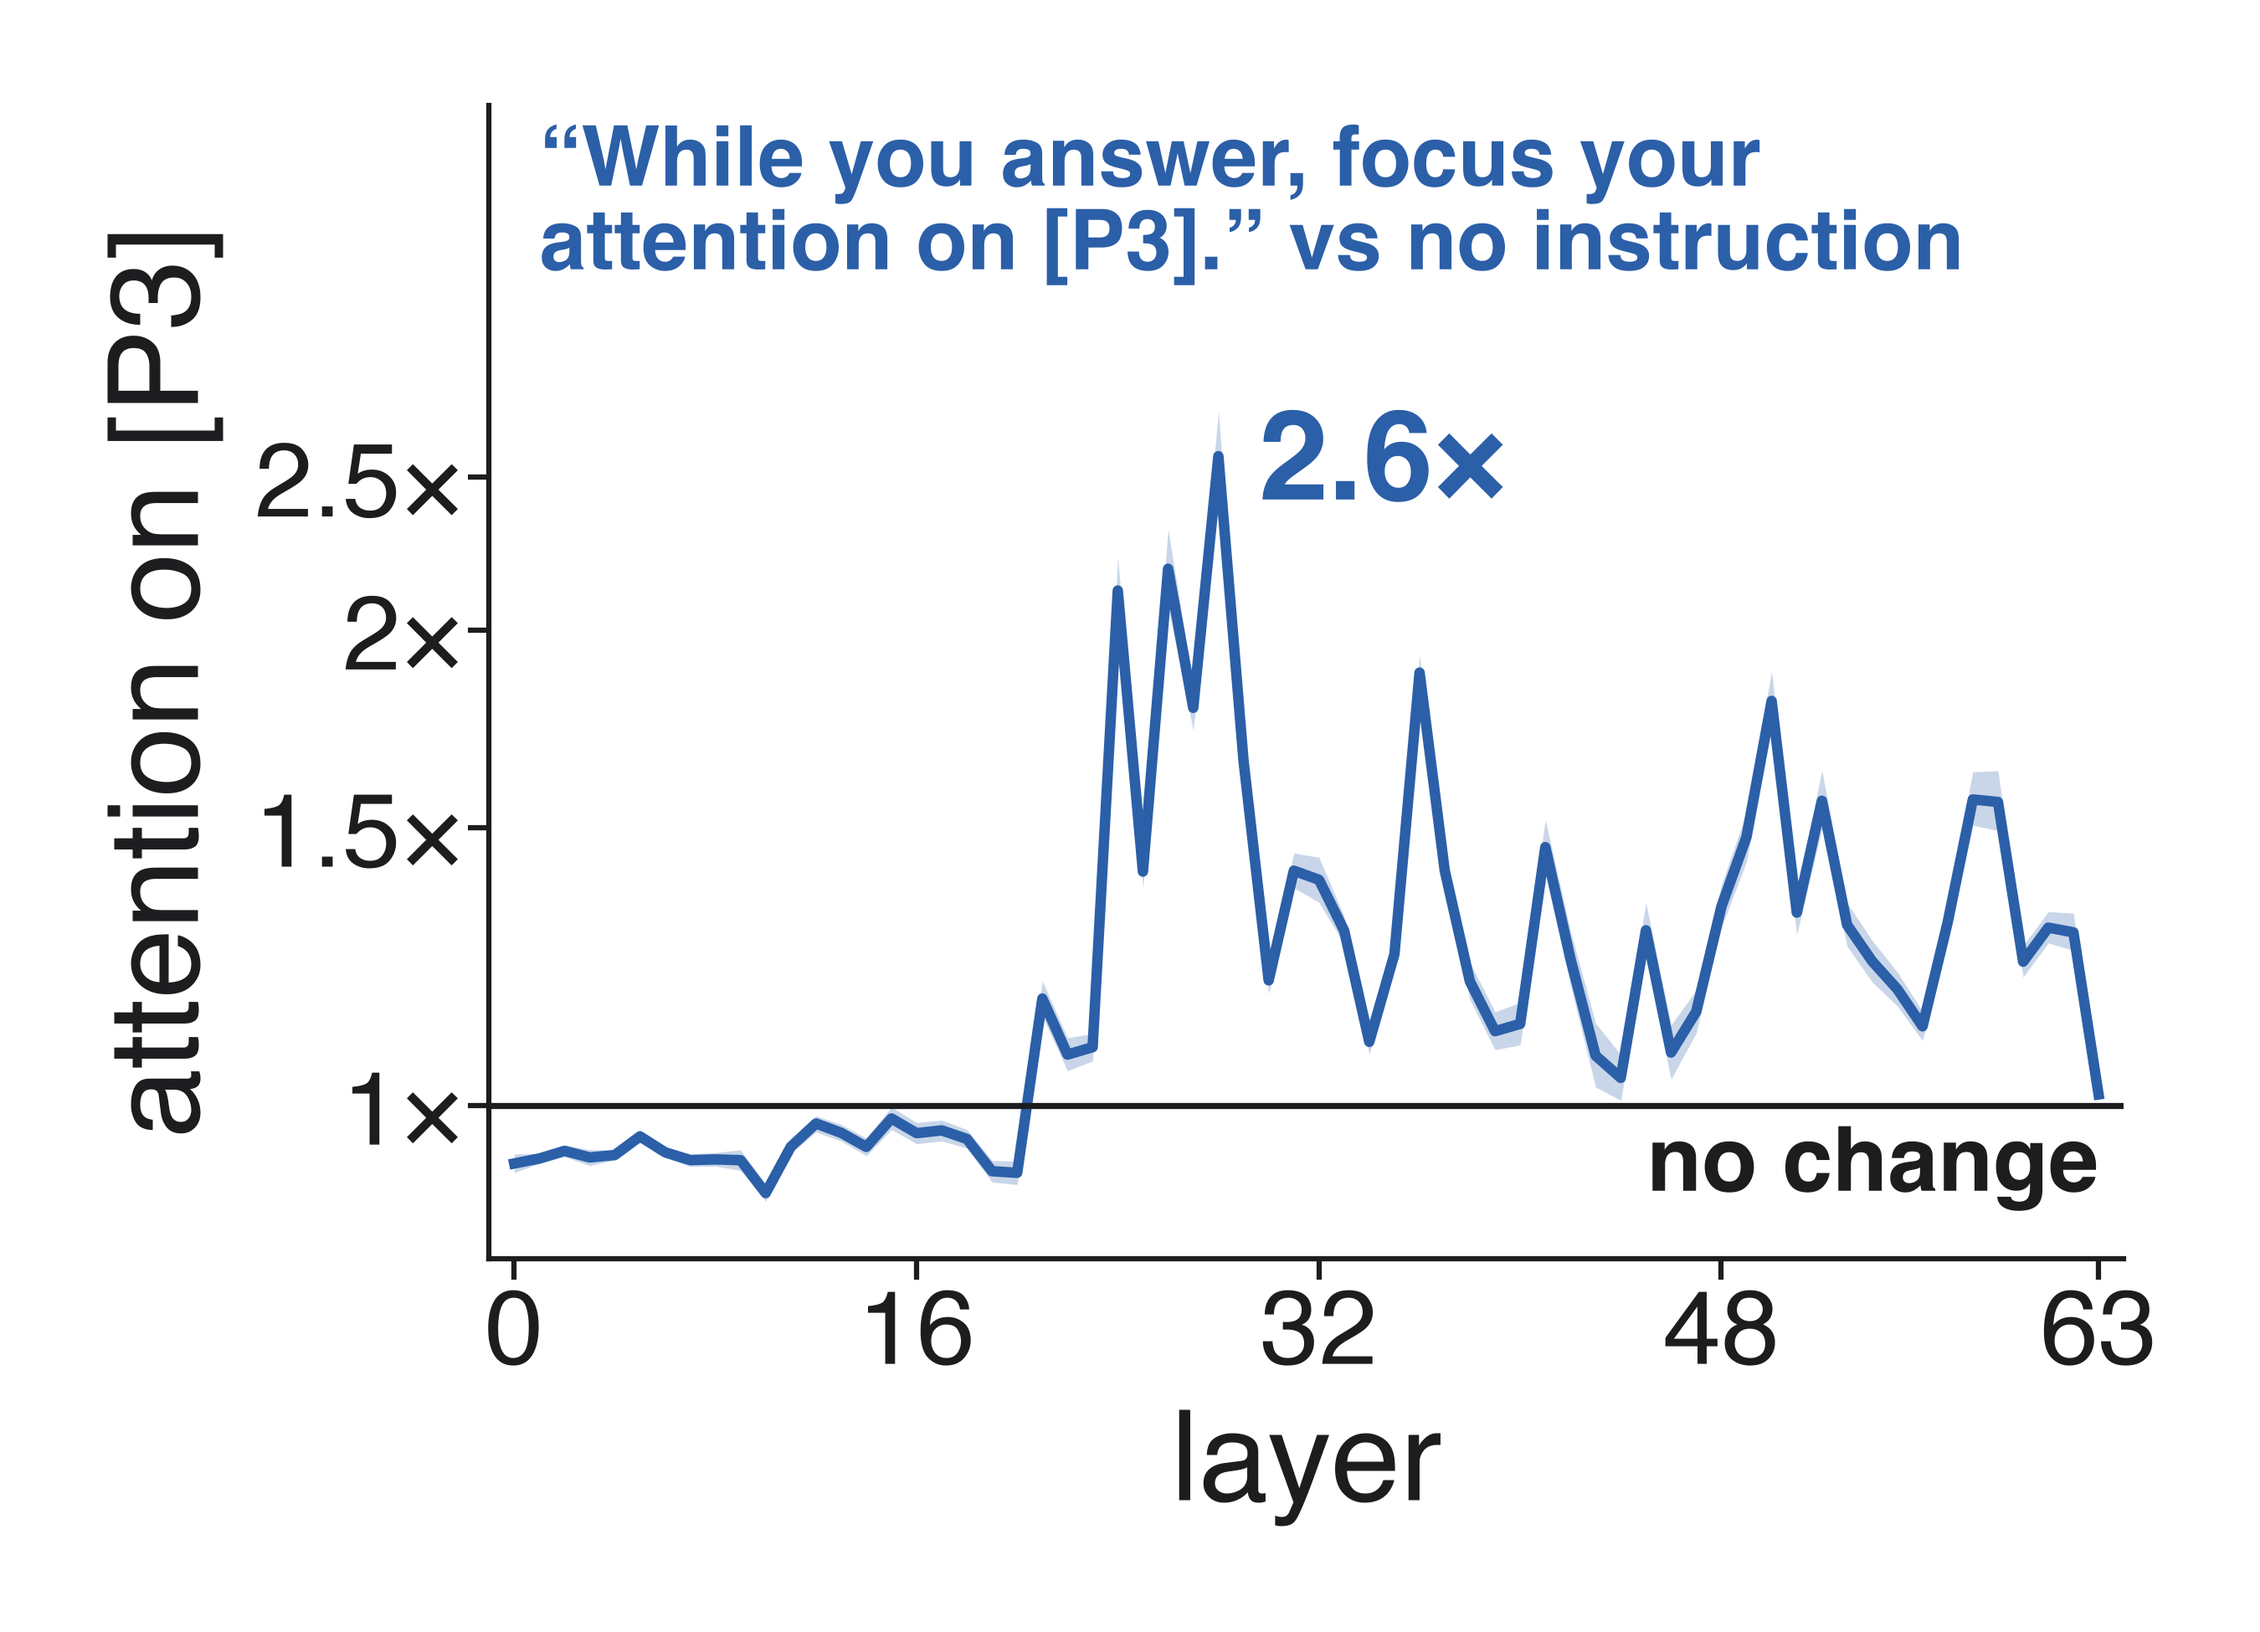
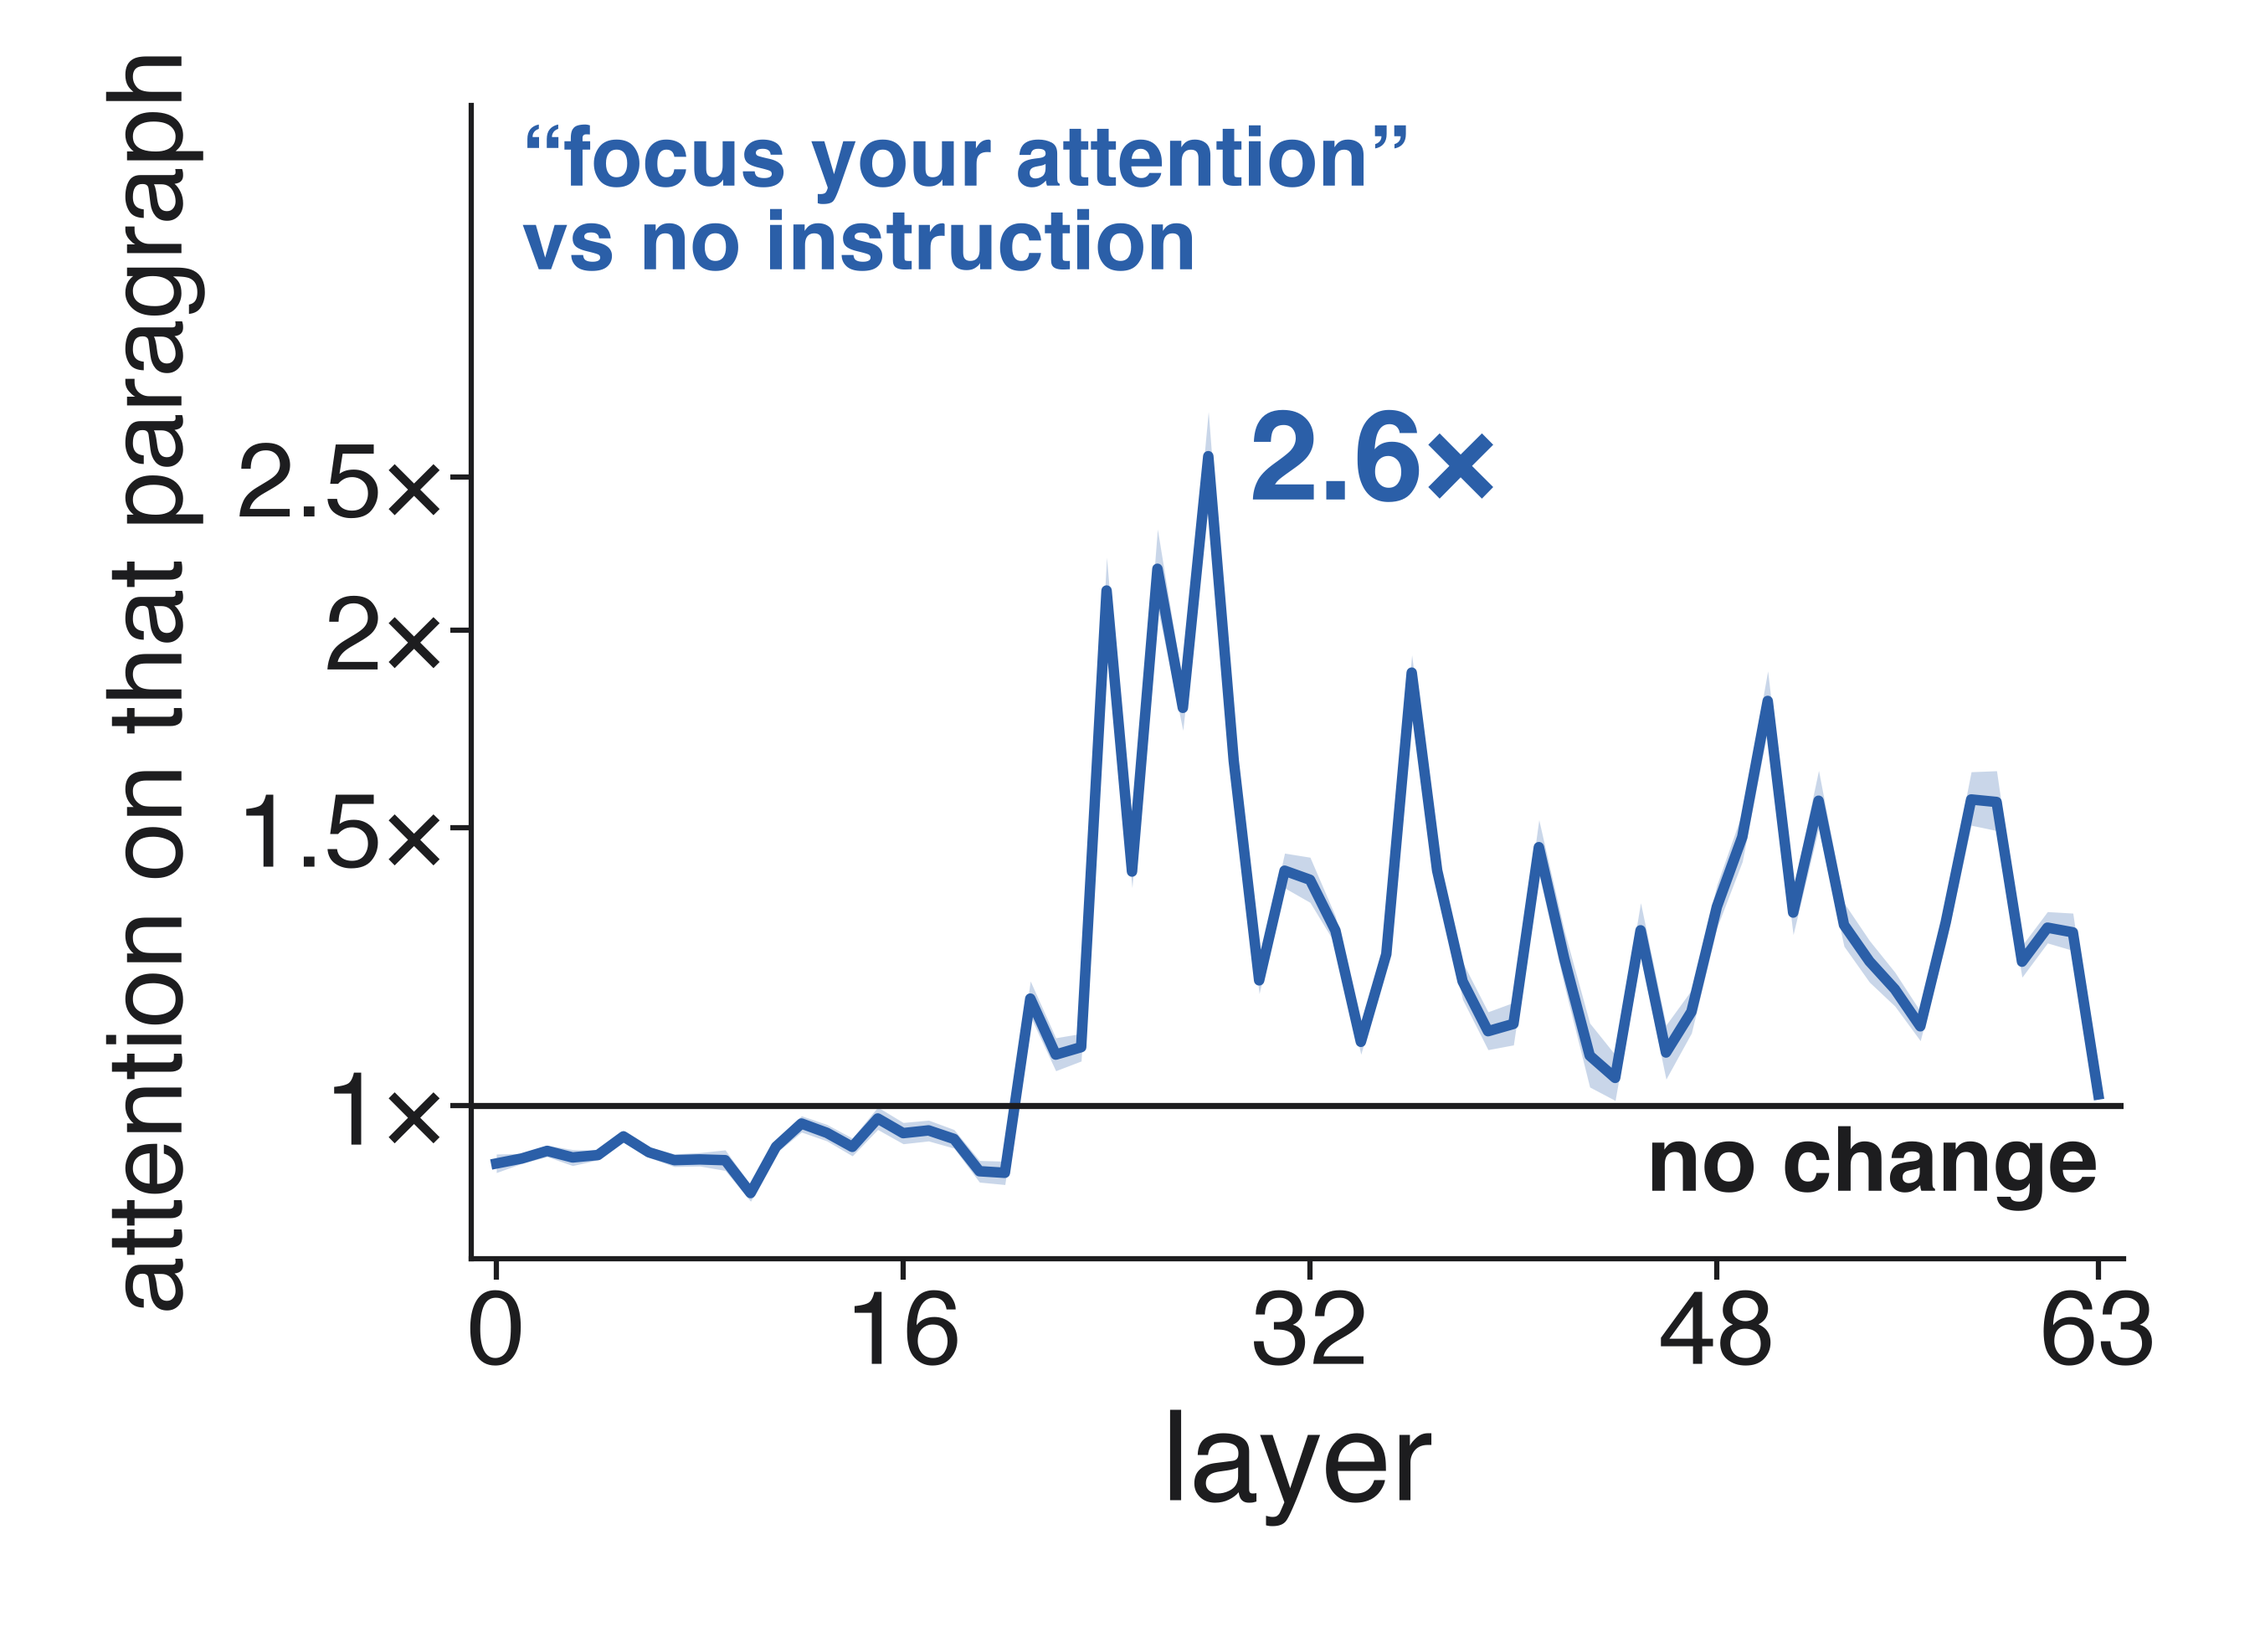
Layer figure: no paragraph label

diff --git a/figures/layers2.py b/figures/layers2.py
@@ -59,9 +59,9 @@ a.fill_between(l,lo,hi,color=BLUE,alpha=0.25,lw=0); a.plot(l,m,color=BLUE,lw=6)
 a.axhline(1,color=INK,lw=3.5); a.text(63,0.975,"no change",ha="right",va="top",fontsize=52,fontweight="bold")
 a.set_yscale("log"); a.set_yticks([1,1.5,2,2.5]); a.set_yticklabels(["1×","1.5×","2×","2.5×"]); a.set_ylim(0.8,4.3); a.minorticks_off()
 a.set_xlim(-1,64); a.set_xticks([0,16,32,48,63]); a.set_xlabel("layer",fontsize=72,labelpad=14)
-a.set_ylabel("attention on [P3]",fontsize=72,labelpad=18)
+a.set_ylabel("attention on that paragraph",fontsize=60,labelpad=18)
 i=int(np.argmax(m)); a.text(i+1.6,m[i]*0.99,f"{m[i]:.1f}×",fontsize=72,color=BLUE,fontweight="bold",va="center")
-a.text(1,4.2,"“While you answer, focus your\nattention on [P3].” vs no instruction",fontsize=48,color=BLUE,fontweight="bold",va="top")
+a.text(1,4.2,"“focus your attention”\nvs no instruction",fontsize=48,color=BLUE,fontweight="bold",va="top")
 for s_ in ["top","right"]: a.spines[s_].set_visible(False)
 a.spines["left"].set_linewidth(3); a.spines["bottom"].set_linewidth(3); a.tick_params(width=3,length=12,labelsize=60)
 fig.tight_layout(); fig.savefig(OUT+"layers2.png",dpi=150,facecolor="white"); fig.savefig(OUT+"layers2.jpg",dpi=150,facecolor="white")
